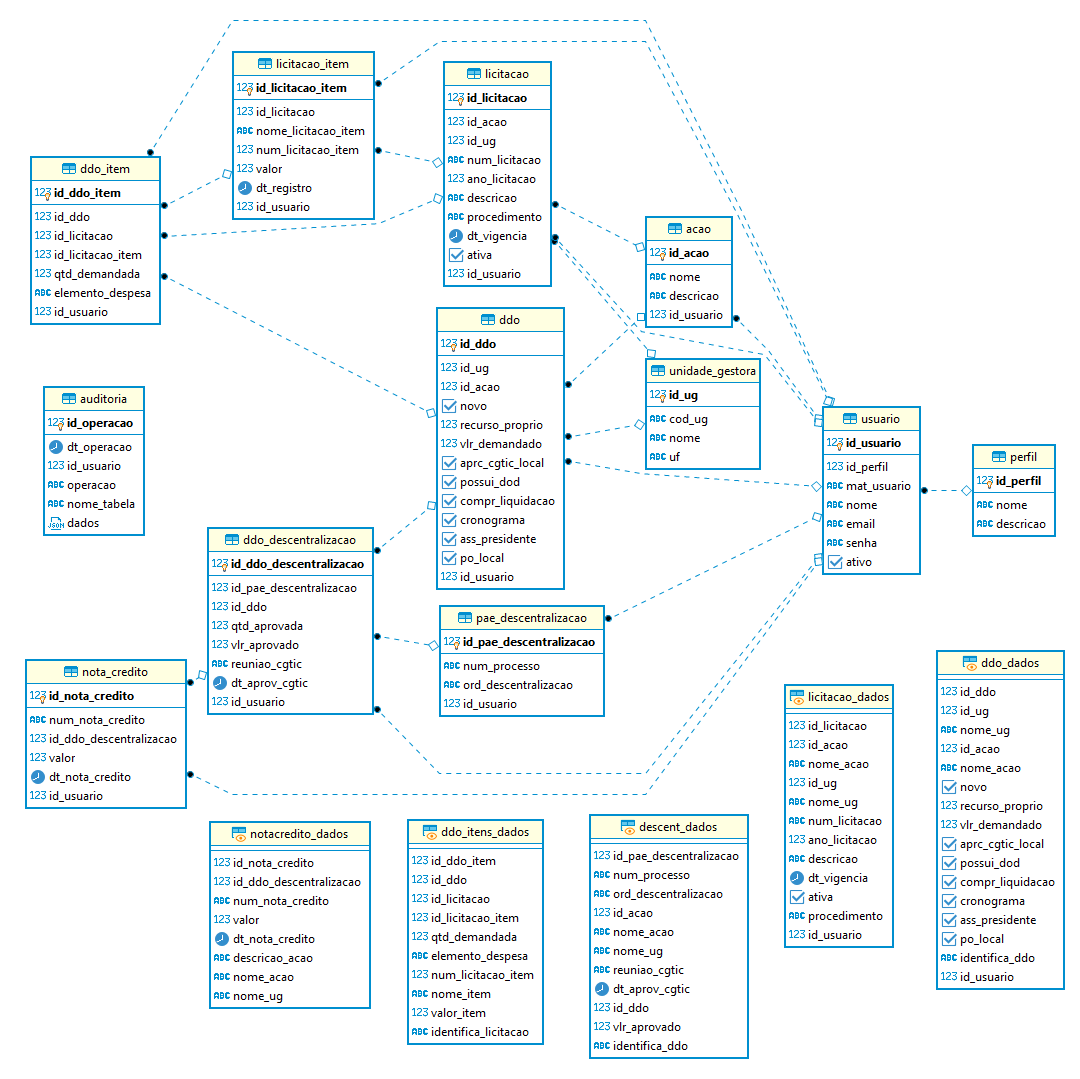
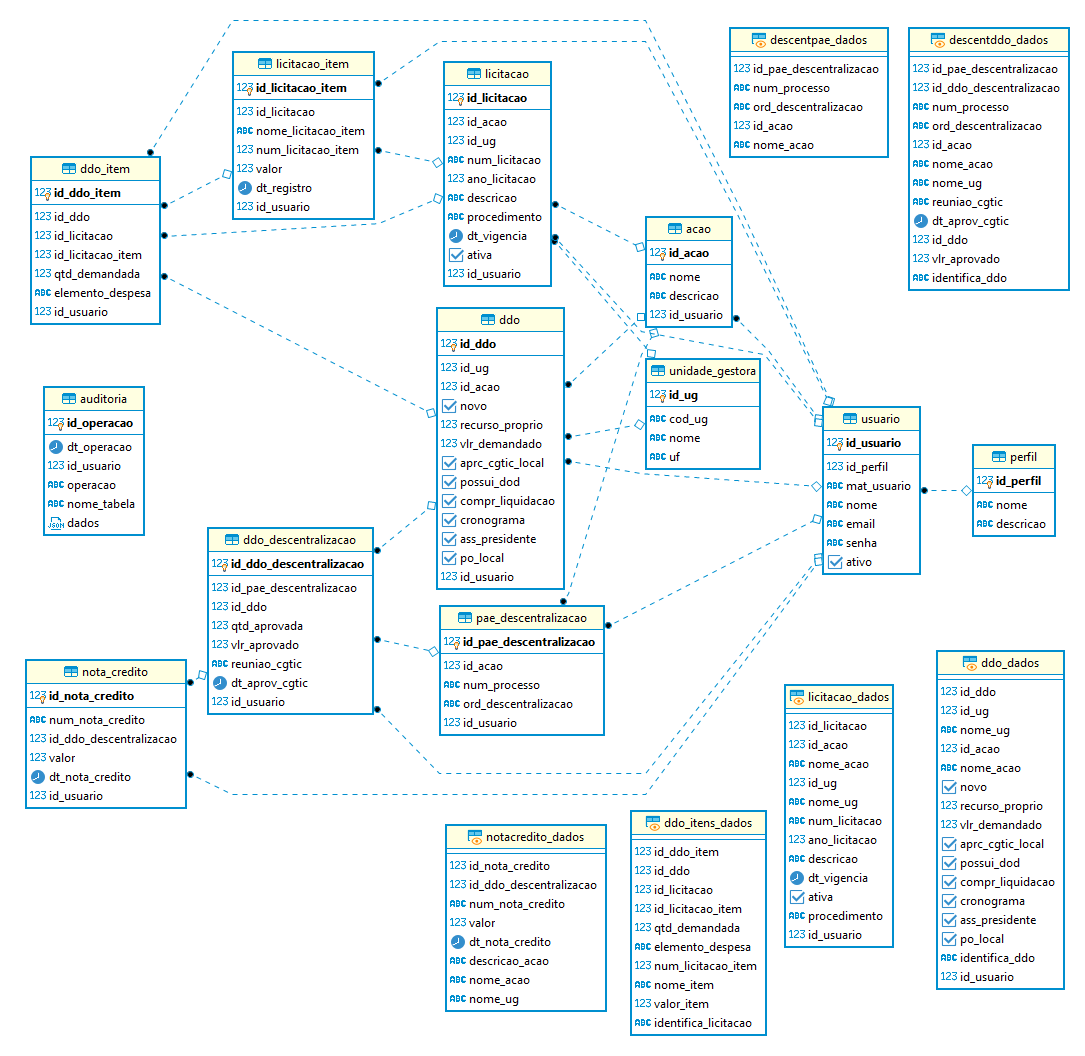
CGGOV-3370 - Alterações no Backend

diff --git a/backend/src/routes.js b/backend/src/routes.js
@@ -9,7 +9,7 @@ const DDOController = require("./controllers/DDOController");
 const DDOItemController = require("./controllers/DDOItemController");
 const DescentController = require("./controllers/DescentController");
 const DescentPaeController = require("./controllers/DescentPaeController");
-const DdoDescentController = require("./controllers/DdoDescentController");
+const DescentDdoController = require("./controllers/DescentDdoController");
 const NtCreditoController = require("./controllers/NotaCreditoController");
 
 const routes = express.Router();
@@ -77,14 +77,14 @@ routes.post("/descentralizacao", DescentController.create);
 routes.delete("/descentralizacao/:id", DescentController.delete);
 routes.put("/descentralizacao/:id", DescentController.update);
 
-// Proc Descentralização
-routes.get("/ddodescentralizacao", DdoDescentController.list);
-routes.get("/ddodescentralizacao/:id", DdoDescentController.find);
-routes.post("/ddodescentralizacao", DdoDescentController.create);
-routes.delete("/ddodescentralizacao/:id", DdoDescentController.delete);
-routes.put("/ddodescentralizacao/:id", DdoDescentController.update);
+// DDO Descentralização
+routes.get("/descentddo", DescentDdoController.list);
+routes.get("/descentddo/:id", DescentDdoController.find);
+routes.post("/descentddo", DescentDdoController.create);
+routes.delete("/descentddo/:id", DescentDdoController.delete);
+routes.put("/descentddo/:id", DescentDdoController.update);
 
-// Dados da PAE Descentralização
+// PAE Descentralização
 routes.get("/descentpae", DescentPaeController.list);
 routes.get("/descentpae/acao/:id", DescentPaeController.findByAcao);
 routes.get("/descentpae/:id", DescentPaeController.find);

diff --git a/backend/src/controllers/DescentDdoController.js b/backend/src/controllers/DescentDdoController.js
@@ -13,7 +13,7 @@ module.exports = {
     } = request.body;
     const id_usuario = request.headers.authorization;
 
-    const [DdoDescentralizacao] = await connection("ddo_descentralizacao")
+    const [DescentDdo] = await connection("ddo_descentralizacao")
       .returning("id_ddo_descentralizacao")
       .insert({
         id_pae_descentralizacao: id_pae_descentralizacao,
@@ -25,20 +25,20 @@ module.exports = {
         id_usuario: id_usuario,
       });
 
-    return response.json({ DdoDescentralizacao });
+    return response.json({ DescentDdo });
   },
 
   // List
   async list(request, response) {
-    const DdoDescent = await connection("ddo_descentralizacao").select("*");
-    return response.json(DdoDescent);
+    const DescentDdo = await connection("descentddo_dados").select("*");
+    return response.json(DescentDdo);
   },
 
   // Find
   async find(request, response) {
     const { id } = request.params;
 
-    const DdoDescent = await connection("ddo_descentralizacao")
+    const DdoDescent = await connection("descentddo_dados")
       .where({
         id_ddo_descentralizacao: id,
       })
@@ -70,7 +70,7 @@ module.exports = {
     const id_usuario = request.headers.authorization;
     const { id } = request.params;
 
-    const [DdoDescent] = await connection("ddo_descentralizacao")
+    const [DescentDdo] = await connection("ddo_descentralizacao")
       .returning("id_ddo_descentralizacao")
       .where({
         id_ddo_descentralizacao: id,
@@ -84,6 +84,6 @@ module.exports = {
         dt_aprov_cgtic: dt_aprov_cgtic,
         id_usuario: id_usuario,
       });
-    return response.json({ DdoDescent });
+    return response.json({ DescentDdo });
   },
 };

diff --git a/frontend/src/app/pages/descent/descent.routing.module.ts b/frontend/src/app/pages/descent/descent.routing.module.ts
@@ -1,14 +1,18 @@
-import { NgModule } from '@angular/core';
-import { Routes, RouterModule } from '@angular/router';
-import { DescentComponent } from '../descent/descent.component';
-
+import { DescentDdoListComponent } from "./descent-ddo/descent-ddo-list/descent-ddo-list.component";
+import { NgModule } from "@angular/core";
+import { Routes, RouterModule } from "@angular/router";
+import { DescentComponent } from "../descent/descent.component";
 
 const descentRoutes: Routes = [
-  {path: "descentralizacao", component: DescentComponent},
+  { path: "descentralizacao", component: DescentComponent },
+  {
+    path: "descentralizacao/:id_pae_descentralizacao",
+    component: DescentDdoListComponent,
+  },
 ];
 
 @NgModule({
   imports: [RouterModule.forChild(descentRoutes)],
-  exports: [RouterModule]
+  exports: [RouterModule],
 })
-export class DescentRoutingModule { }
+export class DescentRoutingModule {}

diff --git a/frontend/src/app/pages/descent/descent-ddo/descent-ddo-list/descent-ddo-list.component.scss b/frontend/src/app/pages/descent/descent-ddo/descent-ddo-list/descent-ddo-list.component.scss
@@ -1,0 +1,61 @@
+.full-width-table {
+  width: 100%;
+}
+
+.titulo .ttile {
+  font-size: 3rem;
+  font-weight: 300;
+  line-height: 1.2;
+}
+
+.titulo .subtitle {
+  font-size: 1.1rem;
+  line-height: 1.2;
+  padding-top: 5px;
+}
+
+.titulo {
+  display: flex;
+  flex-direction: column;
+  align-items: center;
+}
+
+.botao {
+  margin: 8px 0px 15px 0px;
+}
+
+.delete > i {
+  color: #e35e6b;
+}
+
+.edit {
+  color: #d9cd26;
+  vertical-align: middle;
+}
+
+.delete {
+  color: #e35e6b;
+  vertical-align: middle;
+}
+
+.adicionar {
+  margin-top: 15px;
+  text-align: right;
+}
+
+.voltar {
+  margin-left: 10px;
+  color: #1d3557;
+}
+
+.search-div {
+  margin: 10px;
+  display: flex;
+  flex-direction: row;
+}
+
+.search-form-field {
+  width: 70%;
+  margin-left: 10px;
+  padding: 5px 10px;
+}

diff --git a/frontend/src/app/pages/descent/descent-ddo/descent-ddo-list/descent-ddo-list.component.ts b/frontend/src/app/pages/descent/descent-ddo/descent-ddo-list/descent-ddo-list.component.ts
@@ -1,0 +1,21 @@
+import { MatTableDataSource } from "@angular/material/table";
+import { Component, OnInit, ViewChild } from "@angular/core";
+import { DescentDdo } from "../descent-ddo.model";
+import { MatSort } from "@angular/material/sort";
+import { MatPaginator } from "@angular/material/paginator";
+
+@Component({
+  selector: "cggov-descent-ddo-list",
+  templateUrl: "./descent-ddo-list.component.html",
+  styleUrls: ["./descent-ddo-list.component.scss"],
+})
+export class DescentDdoListComponent implements OnInit {
+  ddoItens: MatTableDataSource<DescentDdo>;
+  searchKey: string;
+  @ViewChild(MatSort) sort: MatSort;
+  @ViewChild(MatPaginator) paginator: MatPaginator;
+
+  constructor() {}
+
+  ngOnInit(): void {}
+}

diff --git a/frontend/src/app/pages/descent/descent.module.ts b/frontend/src/app/pages/descent/descent.module.ts
@@ -7,14 +7,10 @@ import { DescentComponent } from "./descent.component";
 import { NgModule } from "@angular/core";
 import { CommonModule } from "@angular/common";
 import { DescentFormComponent } from "./descent-form/descent-form.component";
-import { DescentFormUpdateComponent } from "./descent-form-update/descent-form-update.component";
+import { DescentDdoListComponent } from './descent-ddo/descent-ddo-list/descent-ddo-list.component';
 
 @NgModule({
-  declarations: [
-    DescentComponent,
-    DescentFormComponent,
-    DescentFormUpdateComponent,
-  ],
+  declarations: [DescentComponent, DescentFormComponent, DescentDdoListComponent],
   imports: [
     CommonModule,
     DescentRoutingModule,

diff --git a/frontend/src/app/pages/descent/descent.component.html b/frontend/src/app/pages/descent/descent.component.html
@@ -44,7 +44,7 @@
       <td mat-cell *matCellDef="let row">
         <a
           matTooltip="DDOs da Descentralização"
-          routerLink="/descentralizacao"
+          routerLink="/descentralizacao/{{ row.id_pae_descentralizacao }}"
           class="itens"
         >
           <i class="material-icons"> list </i>

diff --git a/frontend/src/app/pages/descent/descent-ddo/descent-ddo.model.ts b/frontend/src/app/pages/descent/descent-ddo/descent-ddo.model.ts
@@ -1,5 +1,5 @@
 // Tabela DDO_DESCENTRALIZACAO
-export interface DdoDescent {
+export interface DescentDdo {
   id_ddo_descentralizacao?: number;
   id_pae_descentralizacao: number;
   id_ddo: number;

diff --git a/frontend/src/app/pages/descent/descent-ddo/descent-ddo-list/descent-ddo-list.component.html b/frontend/src/app/pages/descent/descent-ddo/descent-ddo-list/descent-ddo-list.component.html
@@ -1,0 +1,1 @@
+<p>descent-ddo-list works!</p>
